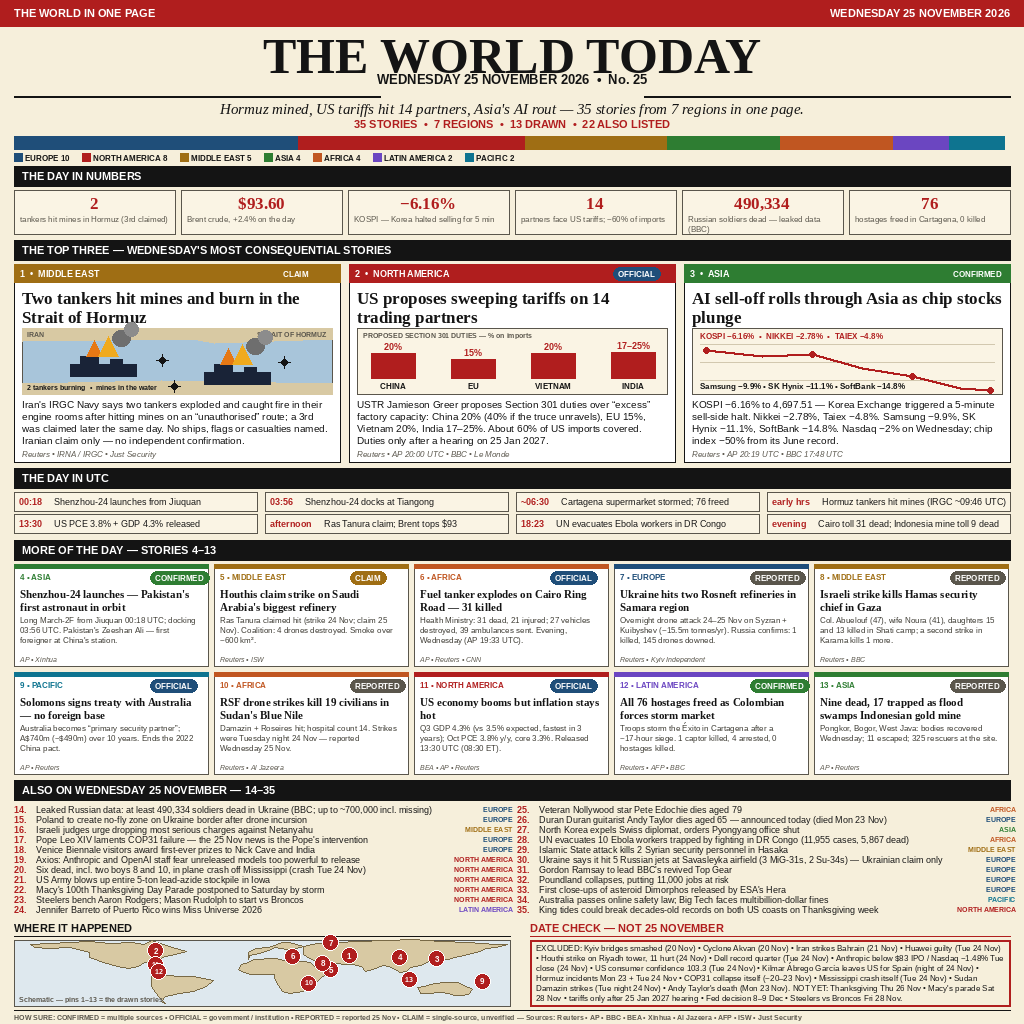
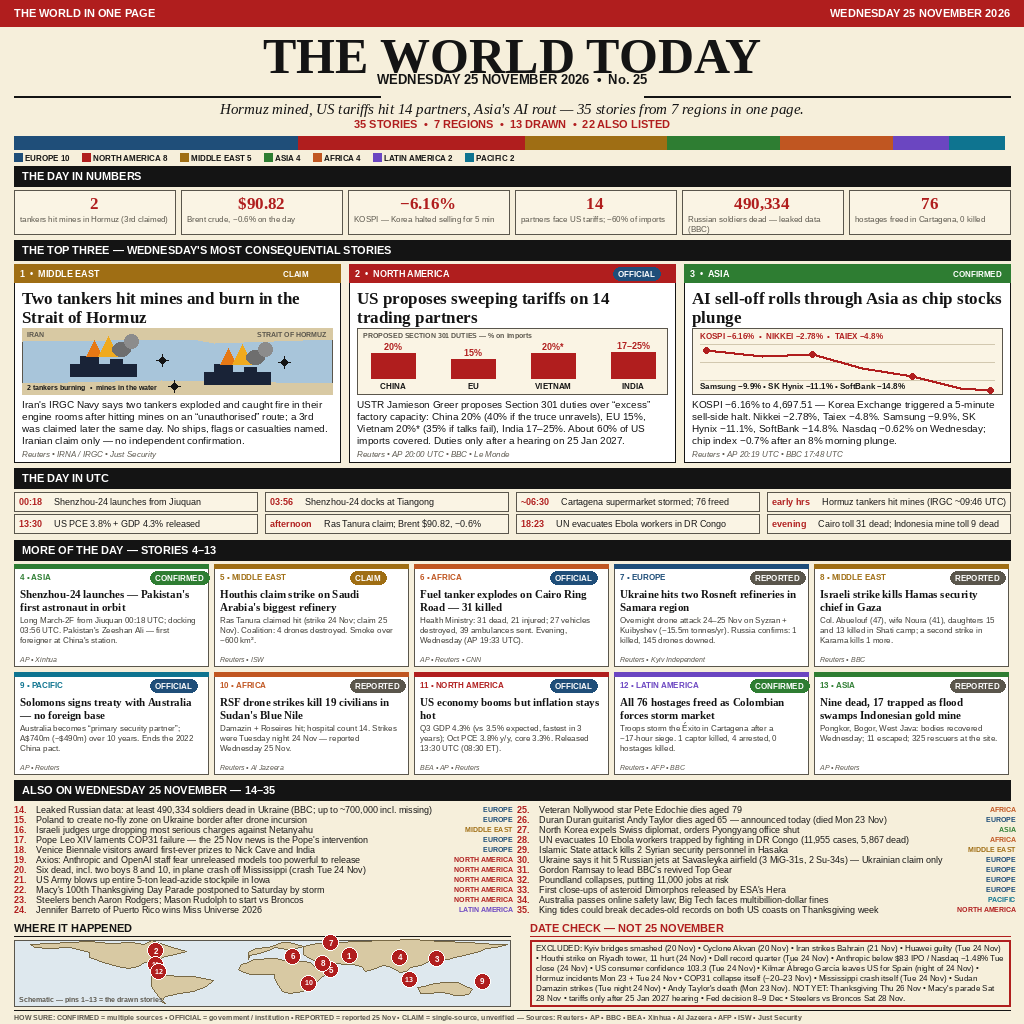
Repair: correct Brent to $90.82 -0.6%, SOX -0.7% Wed, Nasdaq -0.62%, Sat 28 Nov, Hormuz label, Vietnam 20%* conditional

diff --git a/render.py b/render.py
@@ -103,14 +103,14 @@ TRIO = [
     {
         "n": 2, "region": "NORTH AMERICA", "pill": ("OFFICIAL", BLUE),
         "head": "US proposes sweeping tariffs on 14 trading partners",
-        "body": "USTR Jamieson Greer proposes Section 301 duties over \u201cexcess\u201d factory capacity: China 20% (40% if the truce unravels), EU 15%, Vietnam 20%, India 17\u201325%. About 60% of US imports covered. Duties only after a hearing on 25 Jan 2027.",
+        "body": "USTR Jamieson Greer proposes Section 301 duties over \u201cexcess\u201d factory capacity: China 20% (40% if the truce unravels), EU 15%, Vietnam 20%* (35% if talks fail), India 17\u201325%. About 60% of US imports covered. Duties only after a hearing on 25 Jan 2027.",
         "src": "Reuters \u2022 AP 20:00 UTC \u2022 BBC \u2022 Le Monde",
         "art": "tariffs",
     },
     {
         "n": 3, "region": "ASIA", "pill": ("CONFIRMED", (46, 125, 50)),
         "head": "AI sell-off rolls through Asia as chip stocks plunge",
-        "body": "KOSPI \u22126.16% to 4,697.51 \u2014 Korea Exchange triggered a 5-minute sell-side halt. Nikkei \u22122.78%, Taiex \u22124.8%. Samsung \u22129.9%, SK Hynix \u221211.1%, SoftBank \u221214.8%. Nasdaq \u22122% on Wednesday; chip index \u221250% from its June record.",
+        "body": "KOSPI \u22126.16% to 4,697.51 \u2014 Korea Exchange triggered a 5-minute sell-side halt. Nikkei \u22122.78%, Taiex \u22124.8%. Samsung \u22129.9%, SK Hynix \u221211.1%, SoftBank \u221214.8%. Nasdaq \u22120.62% on Wednesday; chip index \u22120.7% after an 8% morning plunge.",
         "src": "Reuters \u2022 AP 20:19 UTC \u2022 BBC 17:48 UTC",
         "art": "rout",
     },
@@ -180,14 +180,14 @@ TIMELINE = [
     ("~06:30", "Cartagena supermarket stormed; 76 freed"),
     ("early hrs", "Hormuz tankers hit mines (IRGC ~09:46 UTC)"),
     ("13:30", "US PCE 3.8% + GDP 4.3% released"),
-    ("afternoon", "Ras Tanura claim; Brent tops $93"),
+    ("afternoon", "Ras Tanura claim; Brent $90.82, \u22120.6%"),
     ("18:23", "UN evacuates Ebola workers in DR Congo"),
     ("evening", "Cairo toll 31 dead; Indonesia mine toll 9 dead"),
 ]
 
 BIG = [
     ("2", "tankers hit mines in Hormuz (3rd claimed)"),
-    ("$93.60", "Brent crude, +2.4% on the day"),
+    ("$90.82", "Brent crude, \u22120.6% on the day"),
     ("\u22126.16%", "KOSPI \u2014 Korea halted selling for 5 min"),
     ("14", "partners face US tariffs; ~60% of imports"),
     ("490,334", "Russian soldiers dead \u2014 leaked data (BBC)"),
@@ -213,8 +213,8 @@ def art_hormuz(d, x, y, w, h):
         d.rectangle([tx + 40, ty - 5, tx + 52, ty], fill=(25, 35, 55))
         d.polygon([(tx + 16, ty - 8), (tx + 24, ty - 24), (tx + 32, ty - 8)], fill=(230, 120, 20))
         d.polygon([(tx + 28, ty - 8), (tx + 38, ty - 28), (tx + 48, ty - 8)], fill=(240, 170, 30))
-        d.ellipse([tx + 42, ty - 34, tx + 60, ty - 18], fill=(110, 110, 110))
-        d.ellipse([tx + 54, ty - 42, tx + 68, ty - 28], fill=(140, 140, 140))
+        d.ellipse([tx + 42, ty - 22, tx + 60, ty - 8], fill=(110, 110, 110))
+        d.ellipse([tx + 54, ty - 30, tx + 68, ty - 16], fill=(140, 140, 140))
     for mx, my in ((x + 140, y + 32), (x + 152, y + 58), (x + 262, y + 34)):
         d.ellipse([mx - 3, my - 3, mx + 3, my + 3], fill=INK)
         d.line([(mx - 6, my), (mx + 6, my)], fill=INK, width=1)
@@ -223,7 +223,7 @@ def art_hormuz(d, x, y, w, h):
 
 def art_tariffs(d, x, y, w, h):
     d.rectangle([x, y, x + w, y + h], fill=PAPER2, outline=GREY)
-    bars = [("CHINA", 20, "20%"), ("EU", 15, "15%"), ("VIETNAM", 20, "20%"), ("INDIA", 21, "17\u201325%")]
+    bars = [("CHINA", 20, "20%"), ("EU", 15, "15%"), ("VIETNAM", 20, "20%*"), ("INDIA", 21, "17\u201325%")]
     base = y + h - 16
     bw = 44
     gap = (w - 4 * bw - 24) // 3
@@ -398,7 +398,7 @@ def main():
           "Kilmar \u00c1brego Garc\u00eda leaves US for Spain (night of 24 Nov) \u2022 Hormuz incidents Mon 23 + Tue 24 Nov \u2022 "
           "COP31 collapse itself (~20\u201323 Nov) \u2022 Mississippi crash itself (Tue 24 Nov) \u2022 Sudan Damazin strikes (Tue night 24 Nov) \u2022 "
           "Andy Taylor's death (Mon 23 Nov).  NOT YET: Thanksgiving Thu 26 Nov \u2022 Macy's parade Sat 28 Nov \u2022 "
-          "tariffs only after 25 Jan 2027 hearing \u2022 Fed decision 8\u20139 Dec \u2022 Steelers vs Broncos Fri 28 Nov.")
+          "tariffs only after 25 Jan 2027 hearing \u2022 Fed decision 8\u20139 Dec \u2022 Steelers vs Broncos Sat 28 Nov.")
     para(d, 536, 943, dc, SANS_R(8), 468, INK, leading=10, max_lines=7)
 
     # footer legend

diff --git a/NOTES.md b/NOTES.md
@@ -53,6 +53,17 @@ the image says Wednesday throughout.)
   live news feed was consulted during the build (the entry is a static
   image drawn from the brief).
 
+## Repair 26 Nov 2026 (independent-verifier fixes, all re-verified live)
+
+- Brent: was "$93.60, +2.4% on the day" (strip) and "Brent tops $93" (timeline) — wrong level and direction. Corrected to **$90.82, −0.6% on the day** in both places. Source: Makkler Brent daily history — Nov 25 close $90.82, −0.63% (open $88.38, high $90.88, low $86.95); Nov 24 close $91.40, +2.27% (so the old +2.4% was Tuesday's move). Corroborated by Reuters/Euronext 25 Nov: Brent fell >1% on Wednesday, −1.6% to $89.93 by 0730 GMT, "paring the previous day's gains". Note: one outlier (Morningstar/Dow Jones Data Talk) claimed a $94.61 Wednesday settle; it contradicts the daily history table and the Reuters wire, so it was not used.
+- SOX: deleted the unsupported "chip index −50% from its June record". Now **"chip index −0.7% after an 8% morning plunge"** (Wednesday 25 Nov). Source: techi.com — SOX "fell as much as 8.0% in the morning and closed down 0.7% at 8,774.86"; corroborated by worldmoneyroadmap ("slipped 0.65% to 8,774.86").
+- Nasdaq: "Nasdaq −2% on Wednesday" → **"Nasdaq −0.62% on Wednesday"**. Source: Nasdaq Composite closed Wed 25 Nov −0.62% at 23,585.80 (investingLive, techi.com, MarketWatch; Tuesday's close was −1.48%).
+- DATE CHECK: "Steelers vs Broncos Fri 28 Nov" → **"Sat 28 Nov"** (verified with `date`: 28 Nov 2026 is a Saturday).
+- Hormuz map: smoke ellipses lowered 12 px so the "STRAIT OF HORMUZ" label is fully readable.
+- Vietnam tariff bar: "20%" → **"20%*"**, body now reads "Vietnam 20%* (35% if talks fail)". Source: Kitco/Flexport/HIDA on the USTR 25 Nov proposal — Vietnam 20% only if a reciprocal trade deal is reached, otherwise up to 35%.
+
+Re-rendered entry.png 1024×1024, 216,621 bytes, visually checked at full page + zoomed crops: all six fixes landed, no overlaps or cut-off text.
+
 ## Checks run locally
 
 - `python3 render.py` → entry.png 1024×1024, 215,724 bytes (< 1 MiB),
